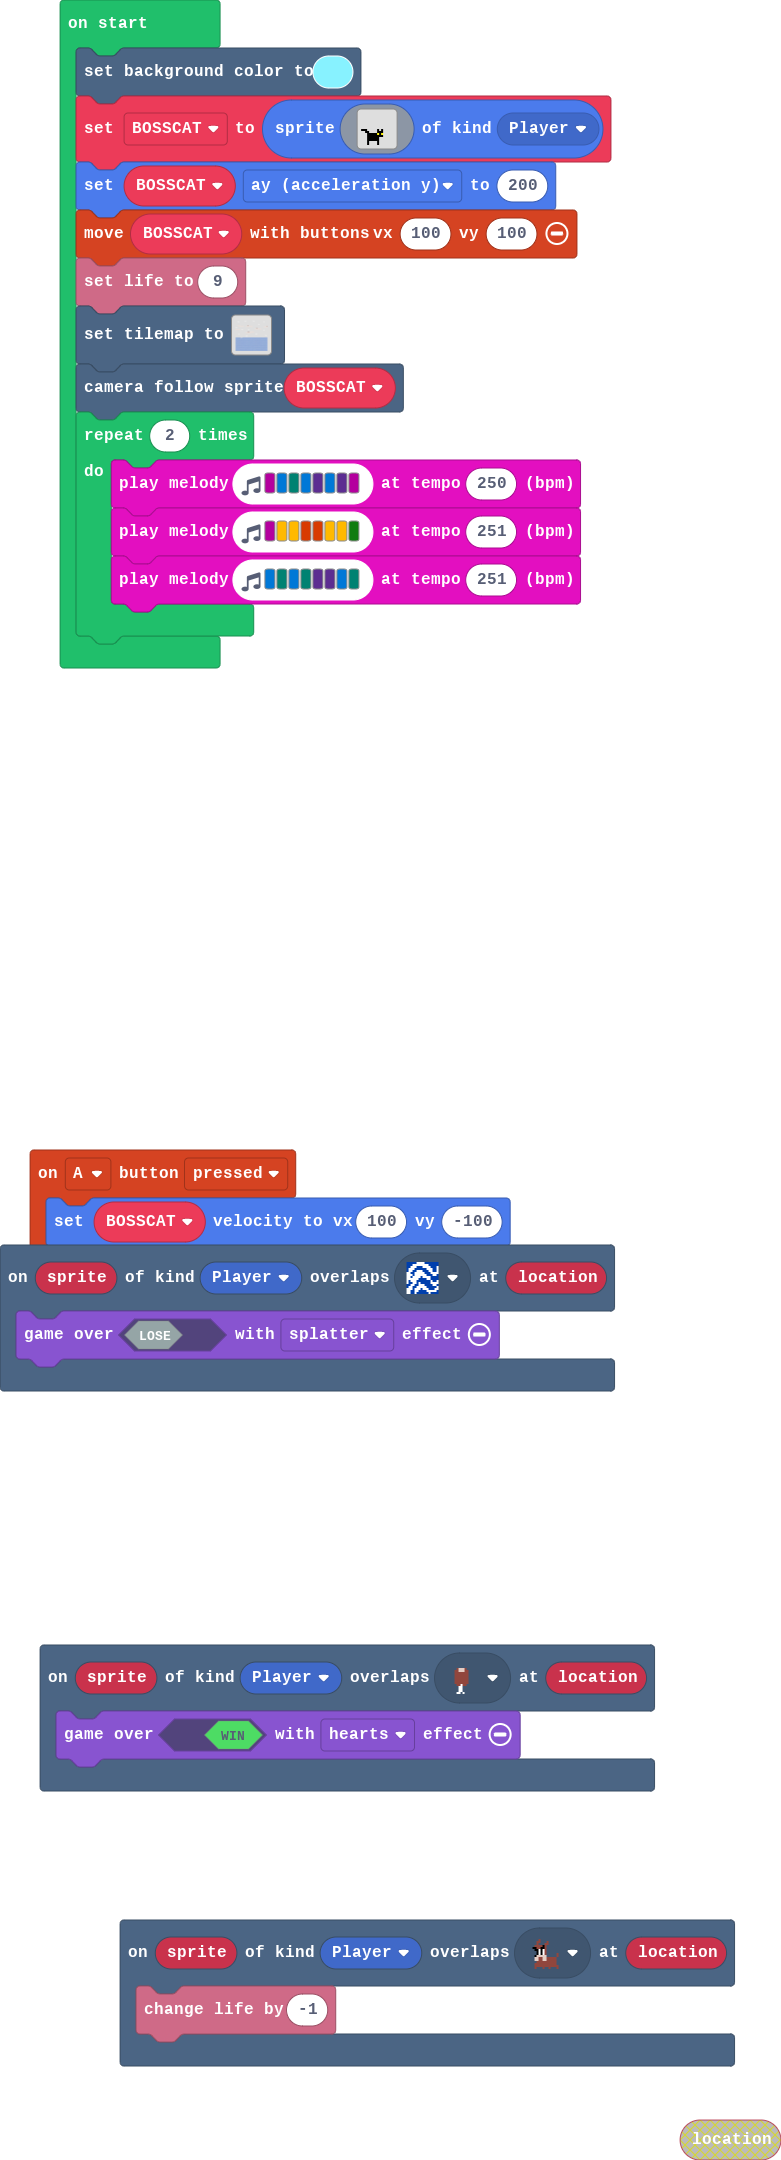
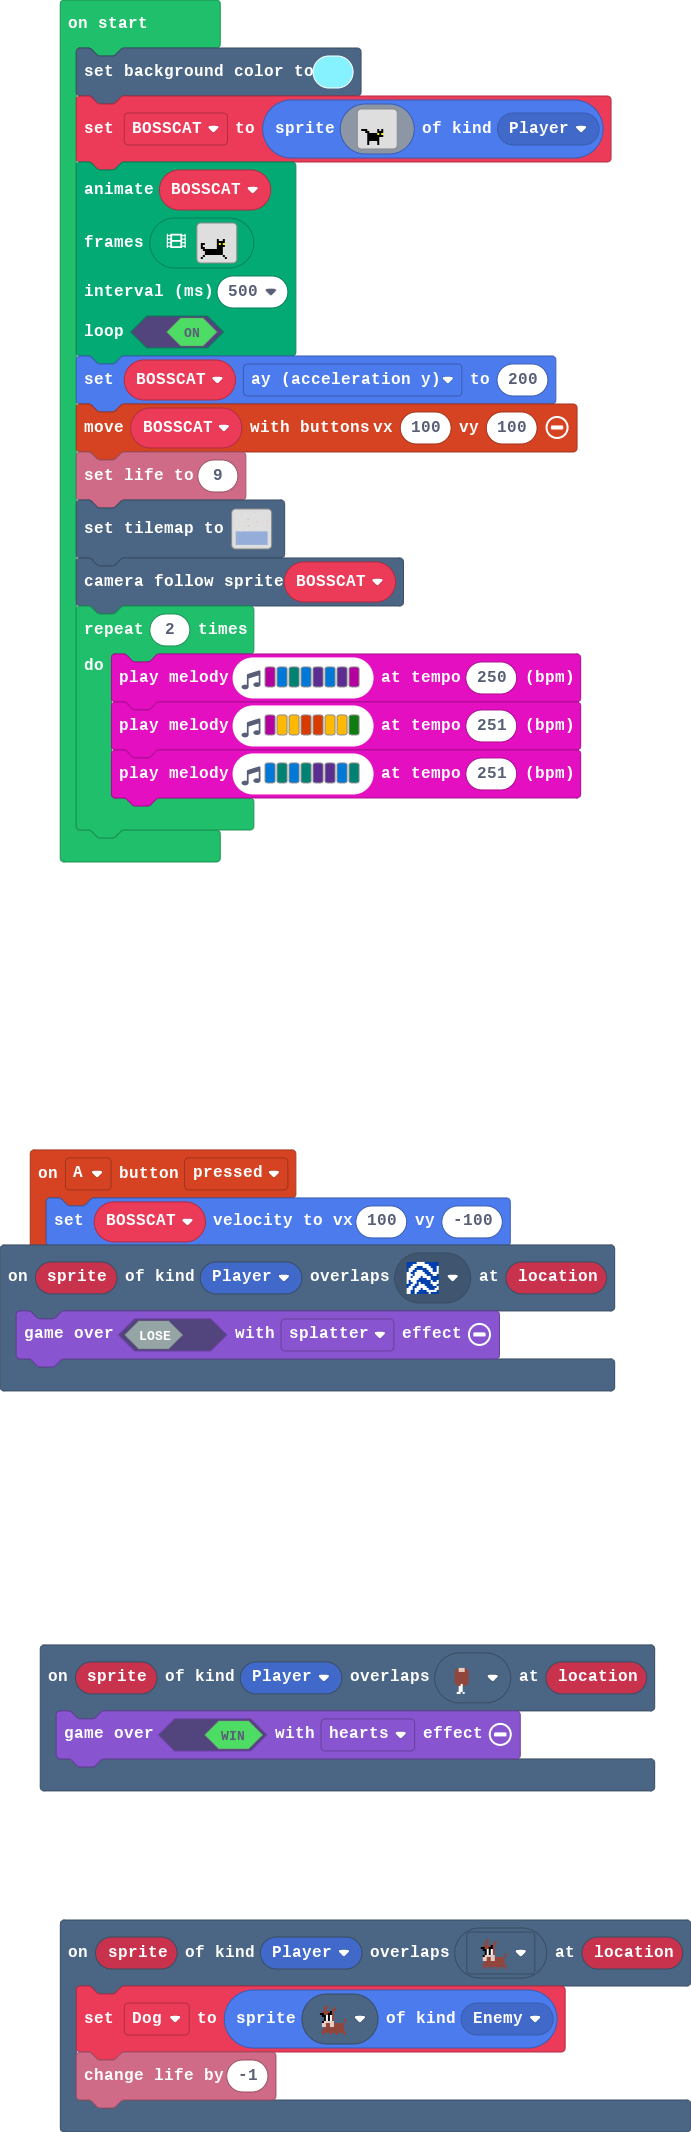
Add BOSSCAT animations

diff --git a/main.ts b/main.ts
@@ -1,7 +1,13 @@
+enum ActionKind {
+    Walking,
+    Idle,
+    Jumping
+}
 scene.onOverlapTile(SpriteKind.Player, assets.tile`myTile0`, function (sprite, location) {
     game.over(false, effects.splatter)
 })
 scene.onOverlapTile(SpriteKind.Player, assets.tile`Dog`, function (sprite, location) {
+    Dog = sprites.create(assets.tile`Dog`, SpriteKind.Enemy)
     info.changeLifeBy(-1)
 })
 controller.A.onEvent(ControllerButtonEvent.Pressed, function () {
@@ -10,9 +16,84 @@ controller.A.onEvent(ControllerButtonEvent.Pressed, function () {
 scene.onOverlapTile(SpriteKind.Player, assets.tile`Food`, function (sprite, location) {
     game.over(true, effects.hearts)
 })
+let Dog: Sprite = null
 let BOSSCAT: Sprite = null
 scene.setBackgroundColor(9)
 BOSSCAT = sprites.create(assets.image`BOSSCAT`, SpriteKind.Player)
+animation.runImageAnimation(
+BOSSCAT,
+[img`
+    . . . . . . . . . . . . . . . . 
+    . . . . . . . . . . . . . . . . 
+    . . . . . . . . . . . . . . . . 
+    . . . . . . . . . . . . . . . . 
+    . . . . . . . . . . . . . . . . 
+    . . . . . . . . . . . . . . . . 
+    . . . . . . . . f . . f . . . . 
+    . . . . . . . . f f f f . . . . 
+    f f . . . . . . f 5 f 5 . . . . 
+    f . . . . . . . f f f f . . . . 
+    f f . . . . . . f f f . . . . . 
+    . f f f f f f f f f f . . . . . 
+    . . f f f f f f f f f . . . . . 
+    . . f f f f f f f f f . . . . . 
+    . f . . . . . . . . . f . . . . 
+    f . . . . . . . . . . . f . . . 
+    `,img`
+    . . . . . . . . . . . . . . . . 
+    . . . . . . . . . . . . . . . . 
+    . . . . . . . . . . . . . . . . 
+    . . . . . . . . . . . . . . . . 
+    . . . . . . . . . . . . . . . . 
+    . . . . . . . . . . . . . . . . 
+    . . . . . . . . f . . f . . . . 
+    . . . . . . . . f f f f . . . . 
+    f f . . . . . . f 5 f 5 . . . . 
+    f . . . . . . . f f f f . . . . 
+    f f . . . . . . f f f . . . . . 
+    . f f f f f f f f f f . . . . . 
+    . . f f f f f f f f f . . . . . 
+    . . f f f f f f f f f . . . . . 
+    . f . f . . . . f . . f . . . . 
+    . . . . f . . f . . . . . . . . 
+    `,img`
+    . . . . . . . . . . . . . . . . 
+    . . . . . . . . . . . . . . . . 
+    . . . . . . . . . . . . . . . . 
+    . . . . . . . . . . . . . . . . 
+    . . . . . . . . . . . . . . . . 
+    . . . . . . . . . . . . . . . . 
+    . . . . . . . . f . . f . . . . 
+    . . . . . . . . f f f f . . . . 
+    f f . . . . . . f 5 f 5 . . . . 
+    f . . . . . . . f f f f . . . . 
+    f f . . . . . . f f f . . . . . 
+    . f f f f f f f f f f . . . . . 
+    . . f f f f f f f f f . . . . . 
+    . . f f f f f f f f f . . . . . 
+    . f . f . . . . f . . f . . . . 
+    f . . . f . . f . . . . f . . . 
+    `,img`
+    . . . . . . . . . . . . . . . . 
+    . . . . . . . . . . . . . . . . 
+    . . . . . . . . . . . . . . . . 
+    . . . . . . . . . . . . . . . . 
+    . . . . . . . . . . . . . . . . 
+    . . . . . . . . . . . . . . . . 
+    . . . . . . . . f . . f . . . . 
+    . . . . . . . . f f f f . . . . 
+    f f f . . . . . f 5 f 5 . . . . 
+    f . f f . . . . f f f f . . . . 
+    f . f f f f f f f f f . . . . . 
+    f . f f f f f f f f f . . . . . 
+    . . f f f f f f f f f . . . . . 
+    . . f f f f f f f f f . . . . . 
+    . . . f . . . . f . . . . . . . 
+    . . . . f . . f . . . . . . . . 
+    `],
+500,
+true
+)
 BOSSCAT.ay = 200
 controller.moveSprite(BOSSCAT, 100, 100)
 info.setLife(9)

diff --git a/images.g.ts b/images.g.ts
@@ -81,6 +81,61 @@ f f f . . . . . f . f . . . . .
 . . . . . . . . . . . . . . . . 
 . . . . . . . . . . . . . . . . 
 `];
+            case "DO":
+            case "anim2":return [img`
+. . . . . . . . . . . . . . . . 
+. . . . . . . . . . . . . . . . 
+. . . . . . . . . . . . . . . . 
+. . . . . . . . . . . . . . . . 
+. . . . . . . . . . . . . . . . 
+. . . . . . . . . . . . . . . . 
+. . . . . . . . . . . . . . . . 
+. . . . . . . . . . . . . . . . 
+. . . . . . . . . . . . . . . . 
+. . . . . . . . . . . . . . . . 
+. . . . . . . . . . . . . . . . 
+. . . . . . . . . . . . . . . . 
+. . . . . . . . . . . . . . . . 
+. . . . . . . . . . . . . . . . 
+. . . . . . . . . . . . . . . . 
+. . . . . . . . . . . . . . . . 
+`];
+            case "Dog":
+            case "anim3":return [img`
+. . . . . . . . . . . . . . . . 
+. . . . . . . . . . . . . . . . 
+. . . . . . . . . . . . . . . . 
+. . . . . . . . . . . . . . . . 
+. . . . . e e . . . . . . . . . 
+. . . . . e . . . e e . . . . . 
+. . . . e e e e e e . . . . . . 
+. . . . 1 f e 1 f e . . . . . . 
+. . . e f f e f f e . . . . . . 
+. . . f d d d d d d . . . . e . 
+. . . d d 1 1 1 d d e e e e . . 
+. . . d e 2 2 1 d e e e e e . . 
+. . . . e e e e e e e e e e . . 
+. . . . e e e e e e e e e e . . 
+. . . e . . . e . . . e . e . . 
+. . e . . . e . . . e . . e . . 
+`, img`
+. . . . . . . . . . . . . . . . 
+. . . . . . . . . . . . . . . . 
+. . . . . . . . . . . . . . . . 
+. . . . . . . . . . . . . . . . 
+. . . . . e e . . . . . . . . . 
+. . . . . e . . . e e . . . . . 
+. . . . e e e e e e . . . . . . 
+. . . . 1 f e 1 f e . . . . . . 
+. . . e f f e f f e . . . . . . 
+. . . f d d d d d d . . . . e . 
+. . . d 1 1 1 1 d d e e e e . . 
+. . . d 2 2 2 2 d e e e e e . . 
+. . . . e e e e e e e e e e . . 
+. . . . e e e e e e e e e e . . 
+. . . . . e . . . . . . . e . . 
+. . . . . . e . . . . . . . e . 
+`];
         }
         return null;
     })
